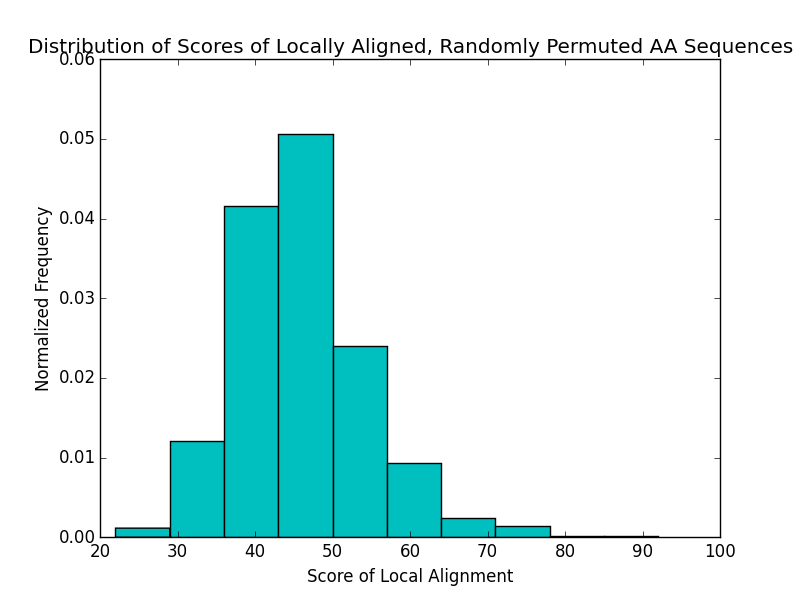
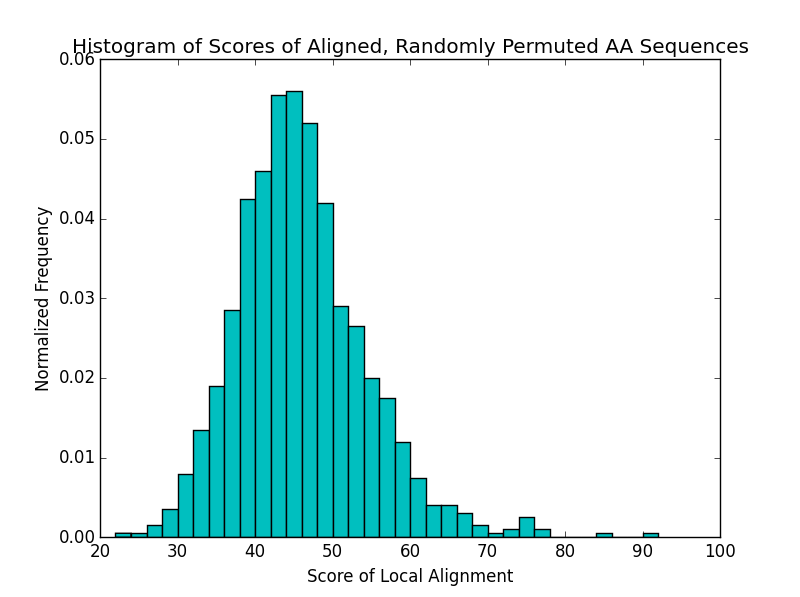
App 4 completed, fast spell check implemented

Changed region(s): [[0.125, 0.1508, 0.8438, 0.9045], [0.0312, 0.0603, 1.0, 0.0905]]

diff --git a/Module 4/app4.py b/Module 4/app4.py
@@ -176,7 +176,7 @@ def plot_htest(scores):
     amino acid sequence alignments.
     """
     plt.figure()
-    plt.hist(scores, normed=True, color='c')
+    plt.hist(scores, normed=True, color='c', bins = 35)
     plt.title('Histogram of Scores of Aligned, Randomly Permuted AA Sequences')
     plt.xlabel('Score of Local Alignment')
     plt.ylabel('Normalized Frequency')
@@ -196,7 +196,89 @@ def zscore(scores, h_a):
     zscore = (h_a - mu) / sigma
     return (mu, sigma, zscore)
     
-            
+def find_scoring_matrix(x, y, med, dim):
+    """
+    Find the scoring matrix that satisifes the definition of minimum edit
+    distance: |x| + |y| - score(x, y)
+    
+    Inputs:
+        x, y: english strings
+        med: minimum edit distance between x, y
+        dim: range of values to test for diag_score, off_score, dash_score
+            note dash_scores will be <= 0
+    """
+    alphabet = set(['a', 'b', 'c', 'd', 'e', 'f', 'g', 'h', 'i', 'j', 'k', 'l',
+    'm', 'n', 'o', 'p', 'q', 'r', 's', 't', 'u', 'v', 'w', 'x', 'y', 'z'])
+    
+    # med(kitten, sitting) = 3
+    correct = len(x) + len(y) - med # 10
+    solutions = np.zeros((dim, dim, dim))
+    for diag in range(dim):
+        for off in range(dim):
+            for dash in range(dim):
+                sm = seq.build_scoring_matrix(alphabet, diag, off, -1 * dash)
+                am = seq.compute_alignment_matrix(x, y, sm)
+                solutions[diag, off, dash] = seq.compute_global_alignment(x, y, sm, am)[0]
+    
+    parameters = np.transpose(np.nonzero(solutions == correct))
+    parameters[:, 2] *= -1
+    return parameters
+    
+def check_spelling(checked_word, dist, word_list):
+    """
+    Returns a set of words from word_list that are dist edit distance from 
+    checked_word
+    """
+    alphabet = set(['a', 'b', 'c', 'd', 'e', 'f', 'g', 'h', 'i', 'j', 'k', 
+    'l', 'm', 'n', 'o', 'p', 'q', 'r', 's', 't', 'u', 'v', 'w', 'x', 'y', 'z'])
+    candidates = set([])
+        
+    for word in word_list:
+        smtrx = seq.build_scoring_matrix(alphabet, 2, 1, 0)
+        amtrx = seq.compute_alignment_matrix(checked_word, word, smtrx)
+        score = seq.compute_global_alignment(checked_word, word, smtrx, amtrx)[0]
+        if len(checked_word) + len(word) - score <= dist:
+            candidates.add(word)
+                
+    return candidates
+        
+
+def edits1(word):
+    """
+    Creates all 1-edit variants of checked_word.
+    """
+    alphabet = 'abcdefghijklmnopqrstuvwxyz'
+    n = len(word)
+    splits = [(word[:i], word[i:]) for i in range(n + 1)]
+    deletes = [a + b[1:] for a, b in splits if b]
+    inserts = [a + c + b for a, b in splits for c in alphabet]
+    substitutions = [a + c + b[1:] for a, b in splits for c in alphabet if b]
+    return set(deletes + inserts + substitutions)
+                        
+def fast_spell_check(checked_word, word_list):
+    """
+    Returns a set of words from word_list with edit distance <= 2 from
+    checked_word.
+    """
+    # store word_list as a set for fast access
+    corpus = set(word_list)
+    
+    # create all 1-edit variants of checked_word
+    edits_1 = edits1(checked_word)
+    
+    # create all 1-edit variants of 1-edit variants of checked_word
+    edits_2 = set([])
+    for edit in edits_1:
+        edits_1_1 = edits1(edit)
+        edits_2 = edits_2.union(edits_1_1)
+        
+    edits = set([checked_word]).union(edits_1).union(edits_2)
+    
+    # return only the words from word_list that are in 0-, 1-, and 2-edit variants
+    return edits.intersection(corpus)
+    
+
+
 def run():
     
     # load sequences and scoring matrix
@@ -224,10 +306,41 @@ def run():
     
     # Question 5
     htest = zscore(h_0, local_alignment[0])
+    print 'Hypothesis test:'
     print 'mean: {:.3f} standard deviation: {:.3f} z-score: {:.3f}'.format(htest[0], htest[1], htest[2])
-
+    print '=' * 30
+    
+    # Question 6
+    plot_htest(h_0)    
+    
+    # Question 7
+    kitten_sitting = find_scoring_matrix('kitten', 'sitting', 3, 3)
+    intention_execution = find_scoring_matrix('intention', 'execution', 5, 3)
+    for solution in kitten_sitting:
+        for _solution in intention_execution:
+            if np.all(solution == _solution):
+                print 'Solution to Scoring Matrix Paramters for Edit Distance:'
+                print '[diag_score  off_diag_score  dash_score]'
+                print solution
+                print '=' * 30
+                
+    # Question 8
+    word_list = read_words(WORD_LIST_URL)
+    print 'Within 1 of "humble": \n'
+    print check_spelling('humble', 1, word_list)
+    print '=' * 30
+    print 'Within 2 of "firefly": \n'
+    print check_spelling('firefly', 2, word_list)
+    print '=' * 30
+    
+    # Question 9
+    print 'Within 1 of "humble" (fast): \n'
+    print set(word_list).intersection(edits1('humble'))
+    print '=' * 30
+    print 'Within 2 of "firefly" (fast): \n'
+    print fast_spell_check('firefly', word_list)
     
     
+if __name__ == '__main__':
+    run()
     
-    
-        
